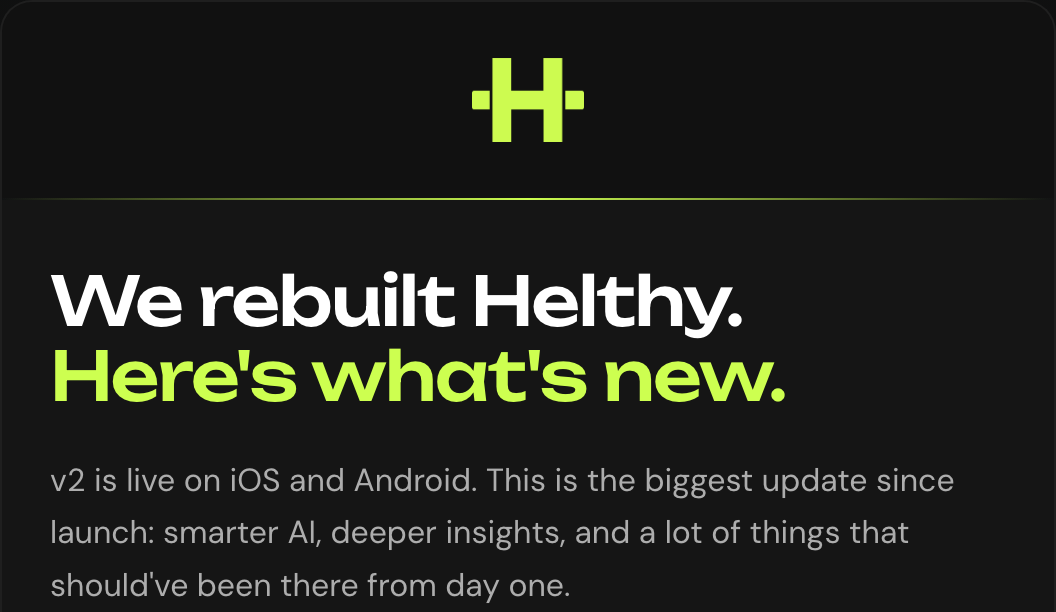
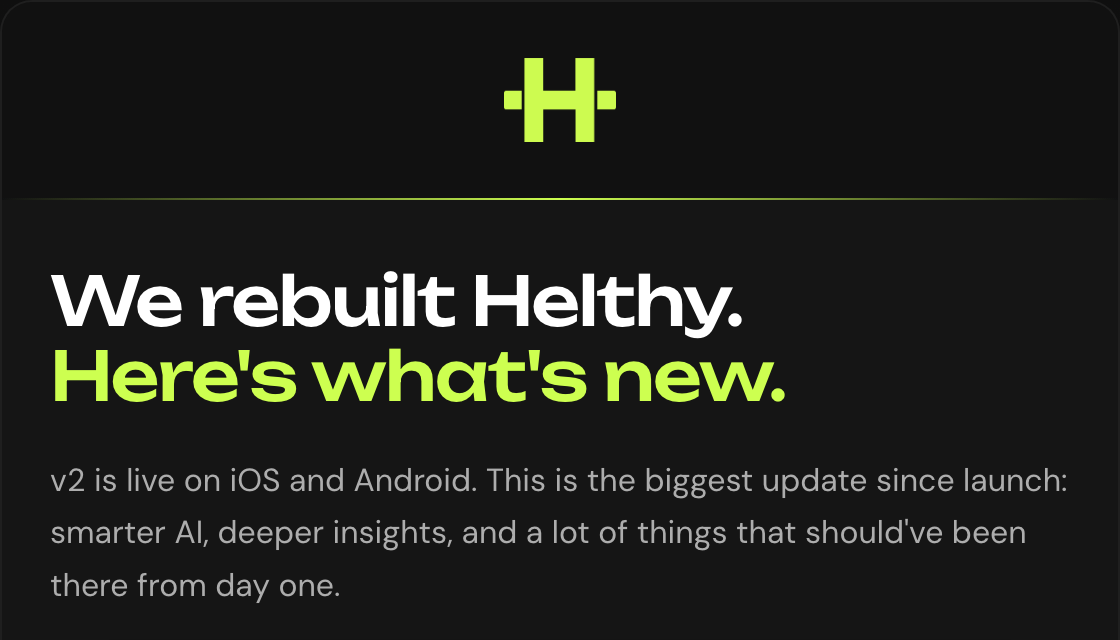
Update hero image dimensions in v2 launch email template

diff --git a/email-templates/v2-launch-hybrid.html b/email-templates/v2-launch-hybrid.html
@@ -50,9 +50,9 @@
               <img
                 src="../public/emails/hero-block.png"
                 alt="We rebuilt Helthy. Here's what's new. v2 is live on iOS and Android."
-                width="528"
-                height="306"
-                style="display:block;width:100%;max-width:528px;height:auto;border:0;" />
+                width="560"
+                height="320"
+                style="display:block;width:100%;max-width:560px;height:auto;border:0;" />
             </td>
           </tr>
 
